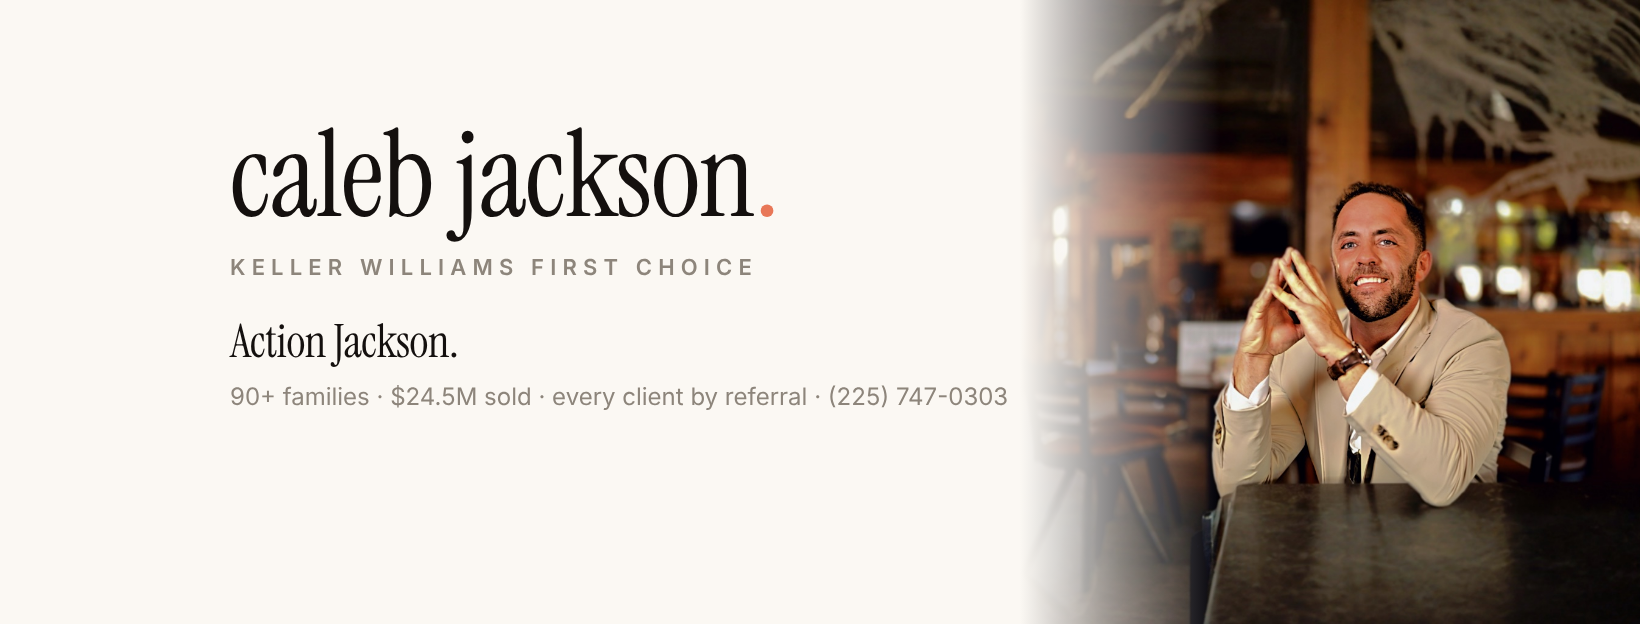
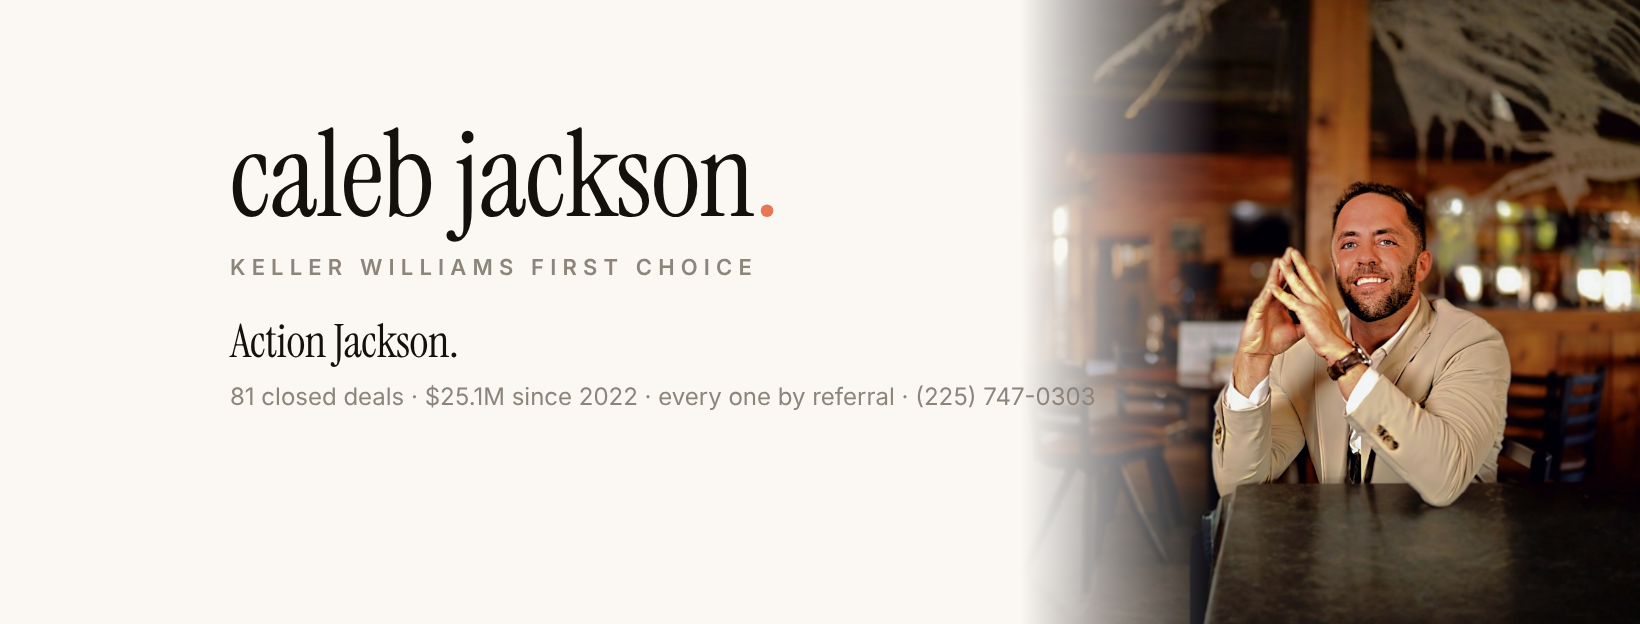
Align receipts to the MLS-backed numbers Caleb confirmed today
81 closed deals, $25.1M since 2022, 27 in the last 12 months, 15 in
Zachary, every one by referral. Retires the from-memory 90+ families
and $24.5M so every profile carries one set of figures. Covers and the
Receipts highlight re-rendered.

Claude-Session: https://claude.ai/code/session_013K7EXx9WhKshegKxMqr5vE

Changed region(s): [[0.1244, 0.609, 0.653, 0.6699]]

diff --git a/brand/profile-assets/gen.html b/brand/profile-assets/gen.html
@@ -60,7 +60,7 @@
     <div class="serif mark">caleb jackson<span class="dot">.</span></div>
     <div class="label">Keller Williams First Choice</div>
     <div class="serif line">Action Jackson.</div>
-    <div class="rec">90+ families &middot; $24.5M sold &middot; every client by referral &middot; (225) 747-0303</div>
+    <div class="rec">81 closed deals &middot; $25.1M since 2022 &middot; every one by referral &middot; (225) 747-0303</div>
   </div>
 </div>
 
@@ -96,7 +96,7 @@
   </div>
 </div>
 
-<div class="c hl" id="hl-receipts"><div class="serif mono">90+<span class="dot">.</span></div><div class="word">Receipts</div></div>
+<div class="c hl" id="hl-receipts"><div class="serif mono">81<span class="dot">.</span></div><div class="word">Receipts</div></div>
 <div class="c hl" id="hl-answers"><div class="serif mono">Q<span class="dot">.</span></div><div class="word">Answers</div></div>
 <div class="c hl" id="hl-places"><div class="serif mono">225<span class="dot">.</span></div><div class="word">Places</div></div>
 <div class="c hl" id="hl-family"><div class="serif mono">aj<span class="dot">.</span></div><div class="word">Family</div></div>

diff --git a/brand/profile-copy-kit.md b/brand/profile-copy-kit.md
@@ -1,15 +1,15 @@
 # Profile copy kit
 
-Approved by Caleb on October 7, 2026. Paste each block into its surface exactly as written. Character counts were checked against each platform's limit on the day of writing. No surface has been updated yet. Each one needs Caleb's own login.
+Approved by Caleb on October 7, 2026. Numbers aligned at 14:58 Central to the MLS-backed set Caleb confirmed with the parallel session (81 closed deals: 77 MLS sides plus 4 off-market; $25.1M since 2022; 27 in the last 12 months; 15 in Zachary). The referral line stays. Paste each block into its surface exactly as written. Character counts were checked against each platform's limit on the day of writing. No surface has been updated yet. Each one needs Caleb's own login.
 
 | Surface | Limit | This copy | Status |
 |---|---|---|---|
 | Luxury Presence homepage hero and short about | none | 355 | Not applied |
 | Luxury Presence About page | none | 894 | Not applied |
-| Instagram bio (@calebjacksonla) | 150 | 132 | Not applied |
-| Facebook page intro | 255 | 165 | Not applied |
+| Instagram bio (@calebjacksonla) | 150 | 141 | Not applied |
+| Facebook page intro | 255 | 174 | Not applied |
 | Facebook page about | none | 894 | Not applied |
-| LinkedIn headline | 220 | 196 | Not applied |
+| LinkedIn headline | 220 | 205 | Not applied |
 | LinkedIn about | 2,600 | 894 | Not applied |
 | Google Business Profile description | 750 | 617 | Not applied |
 | YouTube channel description | 1,000 | 450 | Not applied |
@@ -19,13 +19,13 @@ Also set on every profile: name "Caleb Jackson", business "Keller Williams First
 
 ## Site hero and short about
 
-Baton Rouge born. Faith first, family always. When it's time to move, we move, and that's why they call me Action Jackson. Four years, 90+ families and $24.5M sold across Baton Rouge, Zachary, St. Francisville, New Roads and the Felicianas with Keller Williams First Choice, every one of them by referral. Your call gets returned the same day. Every time.
+Baton Rouge born. Faith first, family always. When it's time to move, we move, and that's why they call me Action Jackson. Since 2022 that's 81 closed deals and $25.1M in sales across Baton Rouge, Zachary, St. Francisville, New Roads and the Felicianas with Keller Williams First Choice, every one of them by referral. Your call gets returned the same day. Every time.
 
 ## About page, Facebook about, LinkedIn about
 
 They call me Action Jackson, and it isn't marketing. It's how I work. Your call gets returned today. Not tomorrow. Today.
 
-I was born and raised right here, and I've built my business across Baton Rouge, Zachary, St. Francisville, New Roads and the Felicianas. Four years and more than 90 families later, with $24.5 million sold, the number I'm proudest of isn't on a billboard. Every single client I've ever worked with came from my sphere, a past client or a referral. I have never paid for a lead. Not once.
+I was born and raised right here, and I've built my business across Baton Rouge, Zachary, St. Francisville, New Roads and the Felicianas. Since 2022 that's 81 closed deals and $25.1 million in sales, 27 of them in the last 12 months, and the number I'm proudest of isn't on a billboard. Every single client I've ever worked with came from my sphere, a past client or a referral. I have never paid for a lead. Not once.
 
 This market moves fast when it's run right. Priced straight, marketed hard, negotiated harder. "Listed Tuesday, under contract Friday" isn't a slogan around here. Some weeks it's just a Tuesday.
 
@@ -38,21 +38,21 @@ Caleb Jackson, REALTOR, Keller Williams First Choice. (225) 747-0303. calebjacks
 ```
 REALTOR, Keller Williams First Choice
 Baton Rouge to the Felicianas
-90+ families. $24.5M sold. All by referral.
+81 closed deals. $25.1M since 2022. All by referral.
 Call returned today.
 ```
 
 ## Facebook page intro
 
-REALTOR, Keller Williams First Choice. Baton Rouge to the Felicianas. 90+ families, $24.5M sold, every one by referral. Your call gets returned today. (225) 747-0303
+REALTOR, Keller Williams First Choice. Baton Rouge to the Felicianas. 81 closed deals, $25.1M since 2022, every one by referral. Your call gets returned today. (225) 747-0303
 
 ## LinkedIn headline
 
-REALTOR at Keller Williams First Choice | Baton Rouge, Zachary, St. Francisville, New Roads and the Felicianas | 90+ families, $24.5M sold, every client by referral | Your call gets returned today
+REALTOR at Keller Williams First Choice | Baton Rouge, Zachary, St. Francisville, New Roads and the Felicianas | 81 closed deals, $25.1M since 2022, every client by referral | Your call gets returned today
 
 ## Google Business Profile description
 
-Caleb Jackson is a REALTOR with Keller Williams First Choice serving Baton Rouge, Zachary, St. Francisville, New Roads and the Felicianas. Four years in, more than 90 families served and $24.5 million sold, and every single client came from a past client, a referral or his own sphere. He has never paid for a lead.
+Caleb Jackson is a REALTOR with Keller Williams First Choice serving Baton Rouge, Zachary, St. Francisville, New Roads and the Felicianas. Since 2022 that is 81 closed deals and $25.1 million in sales, 27 of them in the last 12 months, and every single client came from a past client, a referral or his own sphere. He has never paid for a lead.
 
 They call him Action Jackson because your call gets returned today. Not tomorrow. Today. Homes are priced straight from the numbers, marketed hard and negotiated harder.
 
@@ -64,7 +64,7 @@ Action Jackson. Caleb Jackson, REALTOR with Keller Williams First Choice.
 
 Real answers about buying, selling and relocating across Baton Rouge, Zachary, St. Francisville, New Roads and the Felicianas. Pricing, flood insurance, negotiation and what homes are actually selling for, with the numbers and the dates.
 
-90+ families. $24.5M sold. Every client by referral. Your call gets returned today.
+81 closed deals. $25.1M since 2022. Every client by referral. Your call gets returned today.
 
 (225) 747-0303 | calebjackson.org | @calebjacksonla
 
@@ -83,7 +83,7 @@ Your call gets returned today. Not tomorrow. Today.
 
 Paired with the square seated headshot (Drive file ISIMG-725849.JPG). Saved in Metricool as two drafts on October 7, 2026: Facebook for Wednesday October 8 at 10 am and Instagram the same day at 7 pm. Drafts do not publish. Caleb switches each to scheduled in the planner.
 
-90+ families. $24.5 million sold. Four years.
+81 closed deals. $25.1 million in sales. Since 2022.
 
 Here's the number I'm proudest of: every single one of those clients came from a past client, a referral or somebody in my circle. I have never paid for a lead. Not once.
 

diff --git a/strategy/2026-10-07-most-viewed-realtor-plan.md b/strategy/2026-10-07-most-viewed-realtor-plan.md
@@ -64,7 +64,7 @@ Nothing else in this plan can be measured until these are done. Each is a checkb
 4. **Run the AI baseline from the Mac.** The research packet's 28-prompt library already exists with a run log and a rerun protocol, and the first pass on the one surface it could reach found zero mentions of Caleb in 16 non-branded runs and zero citations of calebjackson.org in 18. Run the full library on ChatGPT, Gemini, Perplexity, Copilot and Google AI Mode from the Mac with location set to Baton Rouge, and fold in the questions at the end of this file that the library lacks (best realtor in Baton Rouge, flood insurance cost, the Action Jackson branded probe). Repeat monthly.
 5. **Apply the two brand decisions above.** Set @calebjacksonla on every profile. Put 37325 Market Place Drive in the site footer, the email signature and on cards. The Google Business Profile does not show an address at all under decision D1.
 6. **Connect LinkedIn in Metricool.** Decided October 7. Caleb does this in Metricool's connections screen with his LinkedIn login (it needs his authorization, so an agent cannot do it). Once connected, the content engine pulls LinkedIn best-time data and adds the Market Receipt and Answers pillars there.
-7. **Bio receipts, done October 7.** Four years selling, $24.5M volume, more than 90 families, 100 percent referral and sphere business, never a paid lead. Caleb approved the copy the same day. The paste-ready version for every surface is in `brand/profile-copy-kit.md`. Applying it to the site, LinkedIn, Instagram, Facebook, YouTube, the Google Business Profile and the email signature needs Caleb's logins and is the first task of the brand lockdown afternoon. Keep the MLS production report on file to back the volume figure.
+7. **Bio receipts, done October 7.** Since 2022: 81 closed deals, $25.1M in sales, 27 in the last 12 months, 100 percent referral and sphere business, never a paid lead. Aligned to the MLS export at 14:58 Central. Caleb approved the copy the same day. The paste-ready version for every surface is in `brand/profile-copy-kit.md`. Applying it to the site, LinkedIn, Instagram, Facebook, YouTube, the Google Business Profile and the email signature needs Caleb's logins and is the first task of the brand lockdown afternoon. Keep the MLS production report on file to back the volume figure.
 
 ## Phase 1: brand consistency and the content engine (weeks 2 to 4)
 
@@ -89,7 +89,7 @@ Inferred design. The weekly rhythm is one 90-minute recording block on Monday th
 
 | Pillar | Weekly count | Why it earns views | Where it lands |
 |---|---|---|---|
-| Receipts | 1 | Listed Tuesday, under contract Friday. Real addresses with permission, real days on market, real numbers. This is the brand. The standing receipt is 90+ families, $24.5M, four years, every one by referral, never a paid lead. | Instagram reel, Facebook, GBP post, YouTube short |
+| Receipts | 1 | Listed Tuesday, under contract Friday. Real addresses with permission, real days on market, real numbers. This is the brand. The standing receipt is 81 closed deals, $25.1M since 2022, every one by referral, never a paid lead. | Instagram reel, Facebook, GBP post, YouTube short |
 | Answers | 2 | 60-second answers to the 20 baseline questions. Flood insurance cost, what a Zachary home costs now, how to price in St. Francisville. These are the same questions AI tools get asked. | Reel, short, Facebook, and a 300-word written version on the matching service page or blog |
 | Place | 1 | A neighborhood from the brand package's eight target areas with one dated fact. Builds the local-expert pages LP already supports. | Reel, Facebook, blog, GBP post |
 | Market receipt | 1 per month | Monthly numbers for East Baton Rouge, Zachary, West Feliciana and Pointe Coupee with the source named. This is what AI answers and local press cite. | /market-report page, email to database, Facebook, LinkedIn if added |

diff --git a/brand/voice-and-visual-rules.md b/brand/voice-and-visual-rules.md
@@ -35,13 +35,13 @@ Supporting lines, use exactly one at a time:
 
 ## The receipts
 
-Reported by Caleb on October 7, 2026. Keep the MLS production report on file so the volume figure can be backed up if a client, broker or the Louisiana Real Estate Commission asks.
+Confirmed by Caleb on October 7, 2026 against the ROAM MLS export pulled that day. The earlier figures from memory (90+ families, $24.5M) are retired. Keep the MLS production report on file so the volume figure can be backed up if a client, broker or the Louisiana Real Estate Commission asks.
 
 | Receipt | Value | How to say it |
 |---|---|---|
-| Years selling | 4 | "Four years in" |
-| Total volume | $24.5 million | "$24.5M sold" |
-| Families served | More than 90 | "90+ families" |
+| Years selling | Since 2022 | "Since 2022" |
+| Total volume | $25.1 million since 2022 (MLS export plus off-market, confirmed by Caleb October 7) | "$25.1M since 2022" |
+| Closed deals | 81 (77 MLS sides plus 4 off-market), 27 in the last 12 months, 15 in Zachary | "81 closed deals" |
 | Source of business | 100 percent sphere, past clients and referrals | "Every single client came from a referral, a past client or my sphere. I have never paid for a lead." |
 
 Use at most two receipts per asset. The referral-only line is the headline differentiator and leads the About page, the LinkedIn about section and the first Receipts post.

diff --git a/agents/content-engine.md b/agents/content-engine.md
@@ -20,7 +20,7 @@
 
 **Steps.**
 1. Read the brand rules. Read this week's clip list and Caleb's one-line notes per clip.
-2. For each clip, write the caption in Caleb's voice: hook line, one real number or place (the standing receipts are in the brand rules: 90+ families, $24.5M, four years, every client by referral, never a paid lead), one supporting line from the fixed set at most once per week, brokerage name, no emoji stacks. Hashtags: five local, none generic.
+2. For each clip, write the caption in Caleb's voice: hook line, one real number or place (the standing receipts are in the brand rules: 81 closed deals, $25.1M since 2022, every client by referral, never a paid lead), one supporting line from the fixed set at most once per week, brokerage name, no emoji stacks. Hashtags: five local, none generic.
 3. Write the GBP post version (under 1,500 characters, one call to action) for Receipts and Place.
 4. Write the 300-word dated written version for each Answer and name the page it belongs on.
 5. Create every post in Metricool as a draft (draft: true), placed in the windows above. Never publish directly. Observed October 7, 2026: Metricool's review and approval flow returned 403 because Caleb's subscription has no team management, so drafts are the approval gate. Caleb opens each draft in the planner and switches it to scheduled.

diff --git a/strategy/site-review-checklist.md b/strategy/site-review-checklist.md
@@ -18,7 +18,7 @@ For the visual review of the Codex full-site preview (built October 6 to 7, 2026
 - [ ] "Keller Williams First Choice" legible on every page. Never inside the personal mark. No Rêve name, color, font or language anywhere, including image alt text and metadata.
 - [ ] Footer shows 37325 Market Place Drive, (225) 747-0303, calebjackson.org and @calebjacksonla. No Commerce Centre Drive. No @calebjackson_24.
 - [ ] Voice: first person, short lines, real numbers and places. No "unparalleled service," no emoji stacks, no em dashes, no semicolons.
-- [ ] Receipts appear where the page argues for Caleb: four years, $24.5M, 90+ families, every client by referral, never a paid lead. At most two receipts per page. The exact approved wording is in `brand/profile-copy-kit.md`.
+- [ ] Receipts appear where the page argues for Caleb: 81 closed deals, $25.1M since 2022, every client by referral, never a paid lead. At most two receipts per page. The exact approved wording is in `brand/profile-copy-kit.md`.
 
 ## Facts
 
